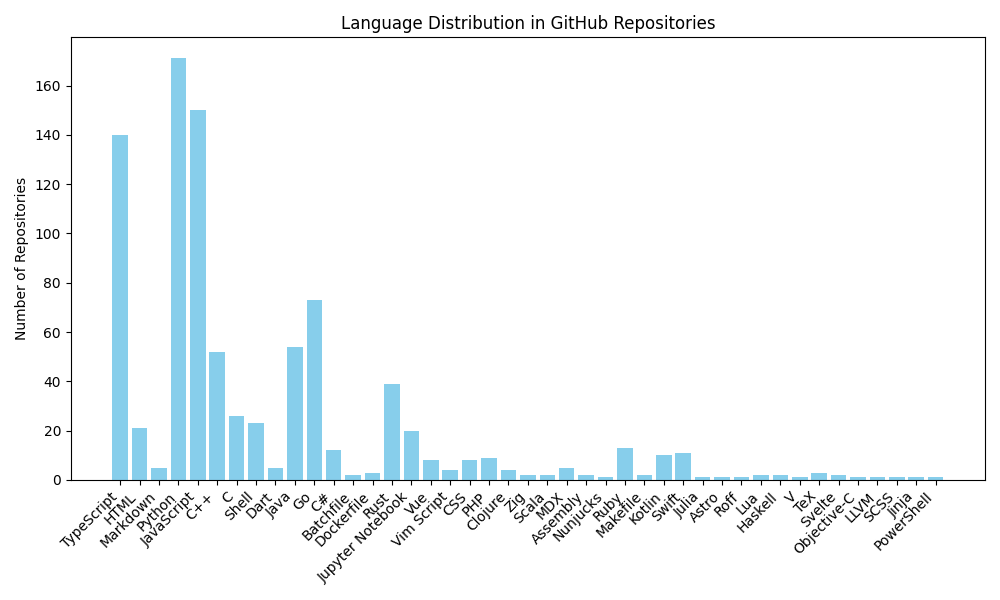
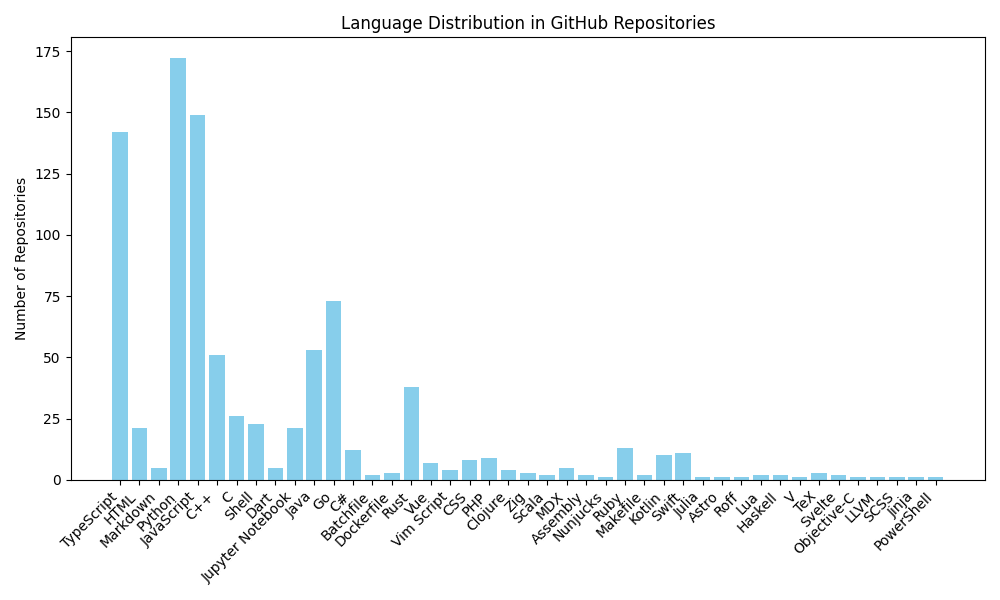
Update language distribution chart

diff --git a/README.md b/README.md
@@ -5,7 +5,7 @@
 Total repositories processed: 895
 
 Language distribution:
-TypeScript: 140, HTML: 21, Markdown: 5, Python: 171, JavaScript: 150, C++: 52, C: 26, Shell: 23, Dart: 5, Java: 54, Go: 73, C#: 12, Batchfile: 2, Dockerfile: 3, Rust: 39, Jupyter Notebook: 20, Vue: 8, Vim Script: 4, CSS: 8, PHP: 9, Clojure: 4, Zig: 2, Scala: 2, MDX: 5, Assembly: 2, Nunjucks: 1, Ruby: 13, Makefile: 2, Kotlin: 10, Swift: 11, Julia: 1, Astro: 1, Roff: 1, Lua: 2, Haskell: 2, V: 1, TeX: 3, Svelte: 2, Objective-C: 1, LLVM: 1, SCSS: 1, Jinja: 1, PowerShell: 1
+TypeScript: 142, HTML: 21, Markdown: 5, Python: 172, JavaScript: 149, C++: 51, C: 26, Shell: 23, Dart: 5, Jupyter Notebook: 21, Java: 53, Go: 73, C#: 12, Batchfile: 2, Dockerfile: 3, Rust: 38, Vue: 7, Vim Script: 4, CSS: 8, PHP: 9, Clojure: 4, Zig: 3, Scala: 2, MDX: 5, Assembly: 2, Nunjucks: 1, Ruby: 13, Makefile: 2, Kotlin: 10, Swift: 11, Julia: 1, Astro: 1, Roff: 1, Lua: 2, Haskell: 2, V: 1, TeX: 3, Svelte: 2, Objective-C: 1, LLVM: 1, SCSS: 1, Jinja: 1, PowerShell: 1
 
 
-_Last updated: 2025-01-26 01:03:30_
+_Last updated: 2025-02-02 01:04:40_
